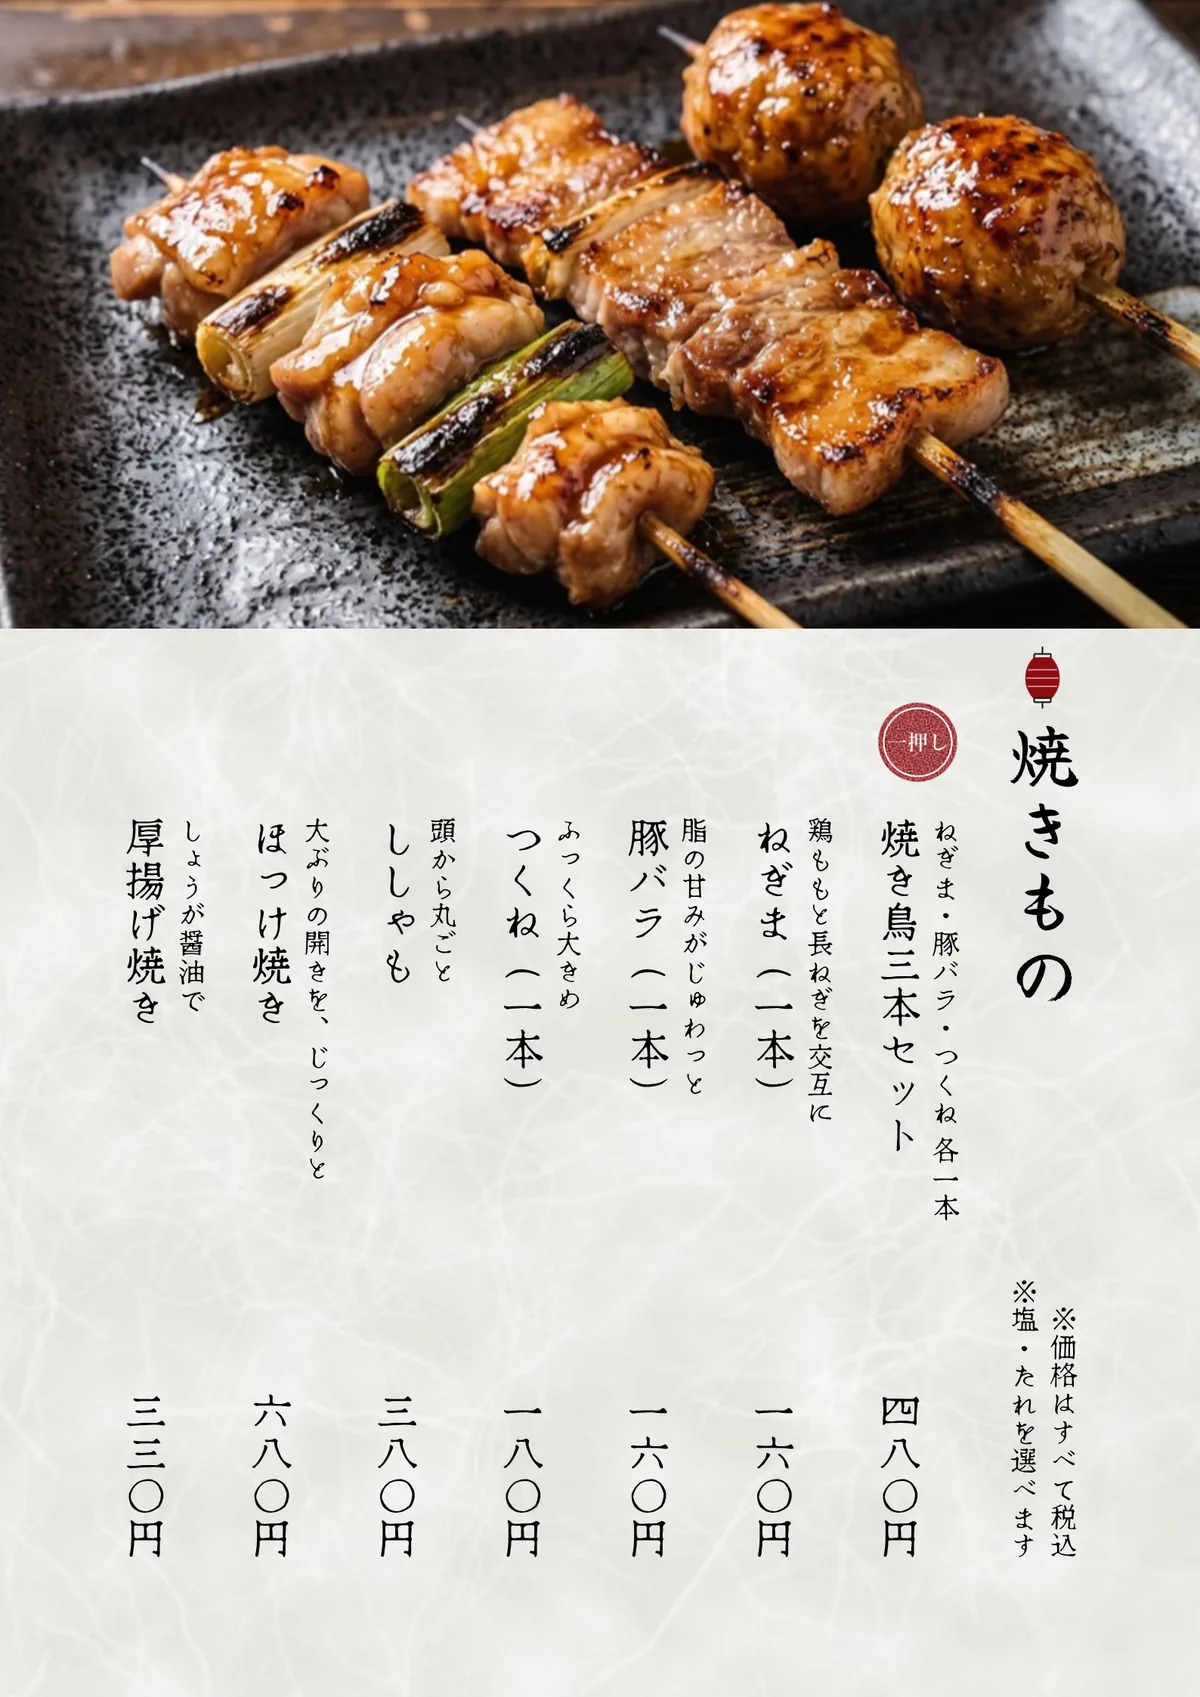
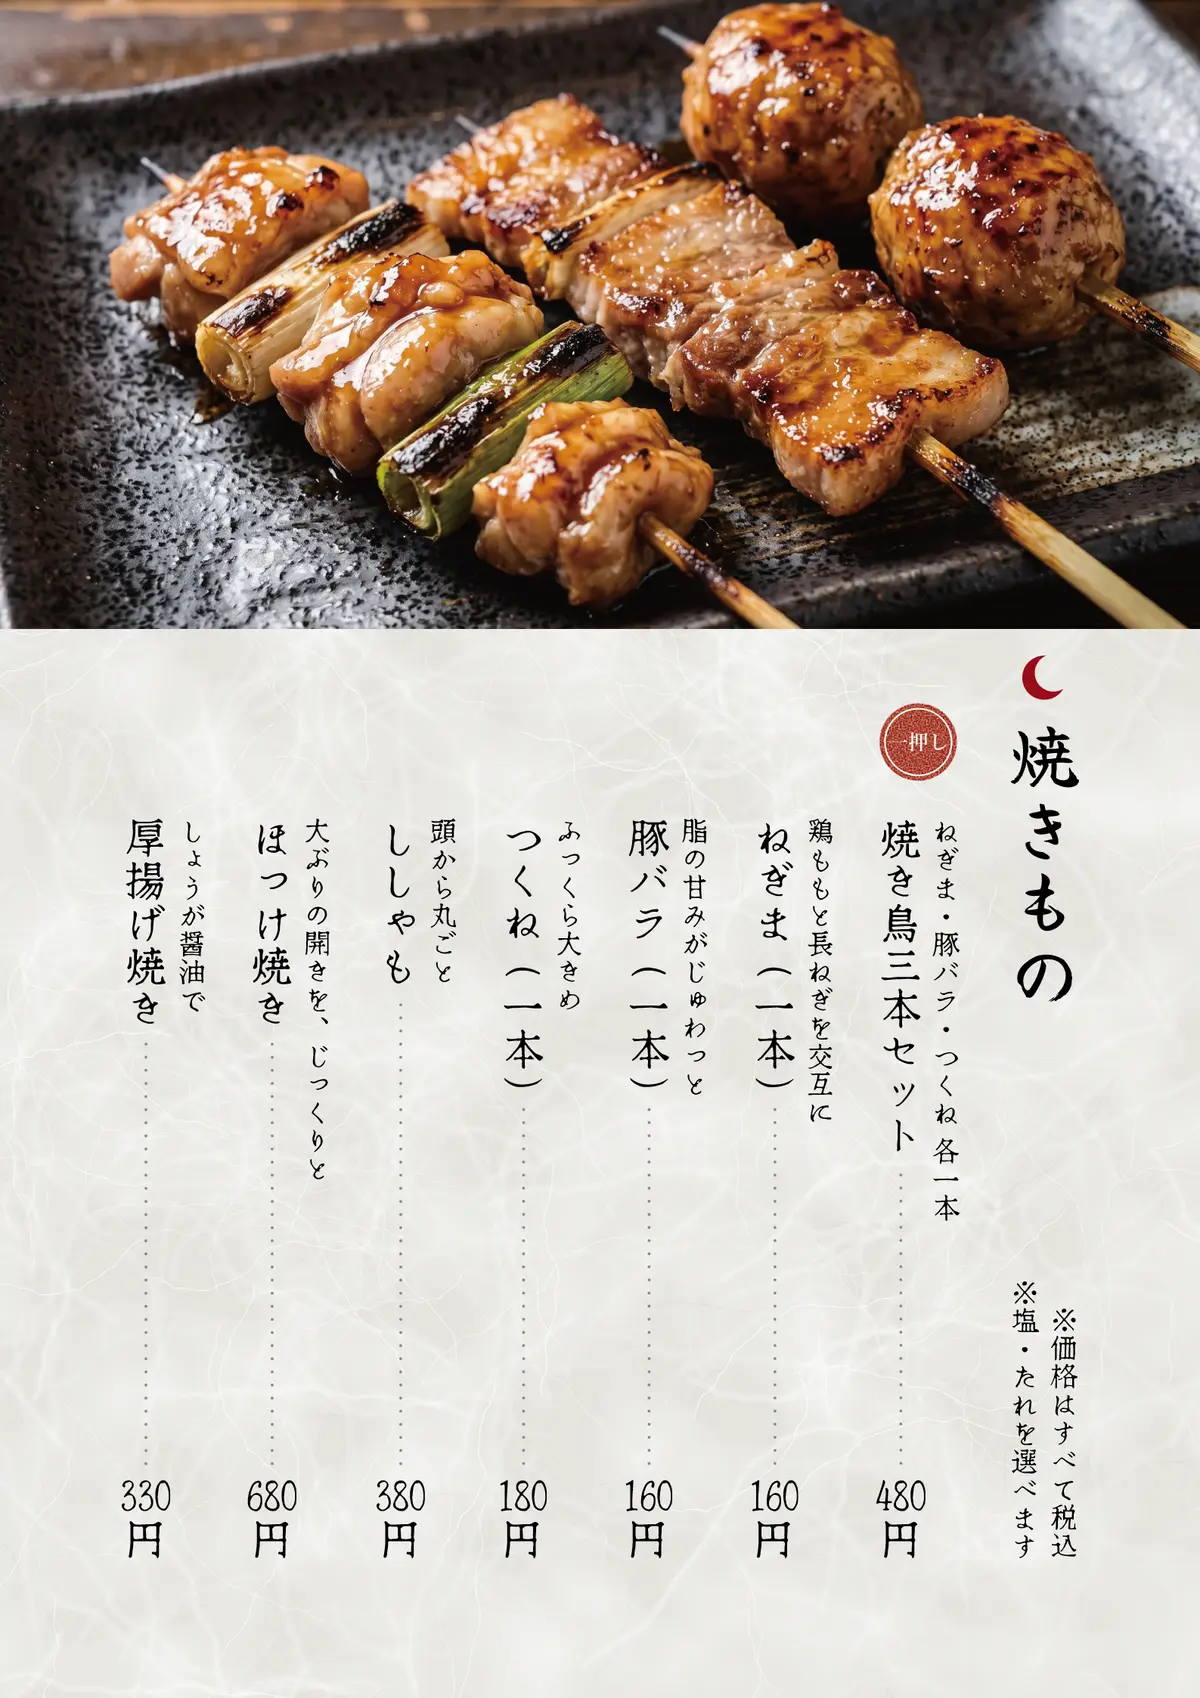
作品集の三日月酒場を手直し：表紙を作り直し、値段を算用数字と点線に、お酒を12品に、見出しを三日月に

diff --git a/works/izakaya/index.html b/works/izakaya/index.html
@@ -54,13 +54,13 @@
         <h1 class="case-hero__title"><span>居酒屋の</span><span>メニュー表</span><span>（A4・8ページ）</span></h1>
         <p class="case-hero__lead">ふらっと入ったお客さまにも、<br class="pc-only">おすすめと値段がすぐ伝わるように。</p>
         <figure class="case-hero__img">
-          <img src="images/hero-800.webp" srcset="images/hero-800.webp 800w, images/hero.webp 1200w" sizes="(min-width: 1080px) 1000px, 100vw" width="1200" height="630" alt="メニュー表の3ページを並べたところ。中央に「お品書き」と三日月のロゴの表紙、左にお刺身のページ、右に焼きもののページ" fetchpriority="high">
+          <img src="images/hero-800.webp" srcset="images/hero-800.webp 800w, images/hero.webp 1200w" sizes="(min-width: 1080px) 1000px, 100vw" width="1200" height="630" alt="メニュー表の3ページを並べたところ。中央に、夜の色の面に店名「三日月酒場」と和紙の三日月を置いた表紙、左にドリンクのページ、右に焼きもののページ" fetchpriority="high">
         </figure>
         <dl class="case-meta">
           <div><dt>業種</dt><dd>居酒屋（架空）</dd></div>
           <div><dt>制作物</dt><dd>メニュー表（A4縦・8ページ：表紙＋7ジャンル）</dd></div>
           <div><dt>担当範囲</dt><dd>品書きの構成・文章・値段の設定・デザイン・ロゴ・和紙の地・飾りの作成</dd></div>
-          <div><dt>使ったもの</dt><dd>Canva（オリジナルの和紙の地・ロゴ・判・飾りは自作）</dd></div>
+          <div><dt>使ったもの</dt><dd>Canva（下書き）、Illustrator（印刷用データ。和紙の地・ロゴ・判・見出しの印は自作）</dd></div>
         </dl>
         <p class="case-note">※練習として制作した、架空のお店のサンプルです。店名・品書き・値段はすべて架空です。<br>※写真は画像生成AIで作成しています（実際のご依頼では、お店の料理写真を使います）。</p>
       </div>
@@ -104,7 +104,7 @@
           </li>
           <li>
             <h3>店名・ロゴ・和紙・飾りは自分で作る</h3>
-            <p>「三日月酒場」という店名と三日月のロゴ、和紙の地、ちょうちんの飾り、「一押し」の丸い判は、<strong>素材を使わずに自分で作りました</strong>。どのページにも同じ部品を使い、まとまりを出しています。</p>
+            <p>「三日月酒場」という店名と三日月のロゴ、和紙の地、「一押し」の丸い判は、<strong>素材を使わずに自分で作りました</strong>。ジャンル名の上の印も<strong>表紙のロゴと同じ三日月</strong>にして、どのページを開いても店の名前につながるようにしています。</p>
           </li>
         </ol>
       </div>
@@ -120,24 +120,24 @@
         </div>
         <ul class="points-grid">
           <li class="shot">
-            <figure class="shot__img shot__img--print"><a href="images/page-cover-large.webp" target="_blank" rel="noopener"><img src="images/page-cover.webp" width="600" height="849" alt="表紙：和紙の地に縦書きの「お品書き」、三日月のロゴと店名「三日月酒場」。下にお通し・アレルギー・お酒の注意書き" loading="lazy"></a></figure>
-            <h3>注意書きは、表紙にまとめる</h3>
-            <p>表紙は「お品書き」とロゴ・店名だけにして、下に<strong>お通し三〇〇円（税込）・アレルギーの声かけ・お酒の注意</strong>をまとめました。</p>
+            <figure class="shot__img shot__img--print"><a href="images/page-cover-large.webp" target="_blank" rel="noopener"><img src="images/page-cover.webp" width="600" height="849" alt="表紙：上は墨藍の夜の色に、白抜きの縦書きの店名「三日月酒場」と、和紙を切り抜いた三日月。下の和紙に縦書きの「お品書き」と三日月のロゴ、お通し・アレルギー・お酒の注意書き" loading="lazy"></a></figure>
+            <h3>表紙は、店の名前を夜の月で見せる</h3>
+            <p>表紙の上は、中のページの写真と同じ高さを<strong>夜の色（墨藍）</strong>にし、和紙を三日月の形に切り抜いて月にしました。店名「三日月酒場」は白抜きの縦書きで大きく置き、表紙だけで店の名前が伝わるようにしています。下の和紙には「お品書き」とロゴ、<strong>お通し300円（税込）・アレルギーの声かけ・お酒の注意</strong>をまとめました。</p>
           </li>
           <li class="shot">
             <figure class="shot__img shot__img--print"><a href="images/page-otsumami-large.webp" target="_blank" rel="noopener"><img src="images/page-otsumami.webp" width="600" height="849" alt="おつまみのページ：上に枝豆の写真、下に縦書きの品書き。1品目の塩ゆで枝豆に「一押し」の判" loading="lazy"></a></figure>
             <h3>上に写真、下に品書き</h3>
-            <p>どのページも、写真 → ちょうちんの飾りとジャンル名 → 品書きの順です。料理名には「ゆでたてに粗塩をひとふり」のような、短いひとことを添えました。</p>
+            <p>どのページも、写真 → 三日月の印とジャンル名 → 品書きの順です。料理名には「ゆでたてに粗塩をひとふり」のような、短いひとことを添えました。</p>
           </li>
           <li class="shot">
-            <figure class="shot__img shot__img--print"><a href="images/page-yakimono-large.webp" target="_blank" rel="noopener"><img src="images/page-yakimono.webp" width="600" height="849" alt="焼きもののページ：上に焼き鳥（ねぎま・豚バラ・つくね）の写真、下に縦書きの品書きと漢数字の値段" loading="lazy"></a></figure>
-            <h3>値段は漢数字で、下の段にそろえる</h3>
-            <p>縦書きに合わせて値段は「四八〇円」のような漢数字にし、高さをそろえて並べました。焼きものには「※塩・たれを選べます」と添えています。</p>
+            <figure class="shot__img shot__img--print"><a href="images/page-yakimono-large.webp" target="_blank" rel="noopener"><img src="images/page-yakimono.webp" width="600" height="849" alt="焼きもののページ：上に焼き鳥（ねぎま・豚バラ・つくね）の写真、下に縦書きの品書き。値段は算用数字で、品名と点線でつないでいる" loading="lazy"></a></figure>
+            <h3>値段は算用数字にして、点線でつなぐ</h3>
+            <p>値段は、ぱっと比べられるように「480円」のような算用数字にし（数字は縦中横）、各列の下で高さをそろえました。品名と値段のあいだは<strong>点線でつなぎ</strong>、どの値段がどの品かを目で追えるようにしています。焼きものには「※塩・たれを選べます」と添えています。</p>
           </li>
           <li class="shot">
-            <figure class="shot__img shot__img--print"><a href="images/page-kanmi-large.webp" target="_blank" rel="noopener"><img src="images/page-kanmi.webp" width="600" height="849" alt="甘味のページ：上に抹茶・あずき・白玉・バニラアイスの写真、下に「アイス」と「和の甘味」の二段の品書き" loading="lazy"></a></figure>
-            <h3>品数の少ないページは二段に</h3>
-            <p>甘味とドリンクは「アイス／和の甘味」のように二段に分けました。一押しの名前は、写真に写っている具に合わせて「抹茶あずき白玉アイス」にしています。</p>
+            <figure class="shot__img shot__img--print"><a href="images/page-drink-large.webp" target="_blank" rel="noopener"><img src="images/page-drink.webp" width="600" height="849" alt="ドリンクのページ：上に生ビールの写真、下に「お飲みもの」の品書きを二段に。お酒12品のあとに小見出し「ソフトドリンク」と4品" loading="lazy"></a></figure>
+            <h3>「酒場」らしく、お酒は12品</h3>
+            <p>ビール・ハイボール・日本酒・焼酎・梅酒・サワーまでそろえ、ソフトドリンクと合わせた16品を、<strong>ページを増やさず二段に収めました</strong>。ソフトドリンクの前には小さな見出しを入れて、お酒と分けています。店名にちなんで、三日月形のレモンを入れた「三日月サワー」も置いています。</p>
           </li>
         </ul>
       </div>

diff --git a/gallery/index.html b/gallery/index.html
@@ -756,22 +756,22 @@
           <p class="work__name">「三日月酒場」（架空のお店）</p>
         </div>
         <dl class="work__spec">
-          <dt>担当</dt><dd>品書きの構成・文章・デザイン、店名のロゴ・和紙の地・ちょうちんの飾り・「一押し」の判</dd>
-          <dt>使ったもの</dt><dd>Canva</dd>
+          <dt>担当</dt><dd>品書きの構成・文章・デザイン、店名のロゴ・和紙の地・見出しの三日月の印・「一押し」の判</dd>
+          <dt>使ったもの</dt><dd>Canva（下書き）、Illustrator（印刷用データ）</dd>
         </dl>
-        <p class="work__body">ふらっと入ったお客さまにも、何を頼めばいいかがすぐ伝わるように、1ページ1ジャンルにし、上の写真の料理を品書きの1品目にそろえて「一押し」の判を押しました。縦書きに合わせて数字は漢数字にし、下の段に高さをそろえています。</p>
+        <p class="work__body">ふらっと入ったお客さまにも、何を頼めばいいかがすぐ伝わるように、1ページ1ジャンルにし、上の写真の料理を品書きの1品目にそろえて「一押し」の判を押しました。値段は比べやすい算用数字にして各列の下にそろえ、品名とは点線でつないでいます。お酒は「酒場」らしく12品にし、ソフトドリンクと合わせて二段に収めました。表紙は上を夜の色にして、和紙を切り抜いた三日月と店名を大きく置き、表紙だけで店の名前が伝わるようにしました。</p>
         <p class="work__note">写真は画像生成AIで作成したイメージです。</p>
       </div>
       <div class="work__media">
         <ul class="pages">
-          <li><figure class="shot"><a class="shot__link" href="images/izakaya-p8.webp"><img src="images/izakaya-p8-400.webp" width="400" height="566" alt="表紙：和紙の地に縦書きの「お品書き」、三日月のロゴと店名、下に注意書き" loading="lazy"></a><figcaption>表紙</figcaption></figure></li>
+          <li><figure class="shot"><a class="shot__link" href="images/izakaya-p8.webp"><img src="images/izakaya-p8-400.webp" width="400" height="566" alt="表紙：上は墨藍の夜の色に、白抜きの縦書きの店名「三日月酒場」と、和紙を切り抜いた三日月。下の和紙に縦書きの「お品書き」と三日月のロゴ、注意書き" loading="lazy"></a><figcaption>表紙</figcaption></figure></li>
           <li><figure class="shot"><a class="shot__link" href="images/izakaya-p1.webp"><img src="images/izakaya-p1-400.webp" width="400" height="566" alt="おつまみのページ：枝豆の写真と縦書きの品書き" loading="lazy"></a><figcaption>おつまみ</figcaption></figure></li>
           <li><figure class="shot"><a class="shot__link" href="images/izakaya-p2.webp"><img src="images/izakaya-p2-400.webp" width="400" height="566" alt="お刺身のページ：刺身の盛り合わせの写真と縦書きの品書き" loading="lazy"></a><figcaption>お刺身</figcaption></figure></li>
           <li><figure class="shot"><a class="shot__link" href="images/izakaya-p3.webp"><img src="images/izakaya-p3-400.webp" width="400" height="566" alt="焼きもののページ：焼き鳥の写真と縦書きの品書き" loading="lazy"></a><figcaption>焼きもの</figcaption></figure></li>
           <li><figure class="shot"><a class="shot__link" href="images/izakaya-p4.webp"><img src="images/izakaya-p4-400.webp" width="400" height="566" alt="揚げ物のページ：唐揚げの写真と縦書きの品書き" loading="lazy"></a><figcaption>揚げ物</figcaption></figure></li>
           <li><figure class="shot"><a class="shot__link" href="images/izakaya-p5.webp"><img src="images/izakaya-p5-400.webp" width="400" height="566" alt="鉄板とご飯のページ：鉄鍋のペッパーライスの写真と縦書きの品書き" loading="lazy"></a><figcaption>鉄板とご飯</figcaption></figure></li>
           <li><figure class="shot"><a class="shot__link" href="images/izakaya-p6.webp"><img src="images/izakaya-p6-400.webp" width="400" height="566" alt="甘味のページ：抹茶・あずき・白玉・アイスの写真と二段の品書き" loading="lazy"></a><figcaption>甘味</figcaption></figure></li>
-          <li><figure class="shot"><a class="shot__link" href="images/izakaya-p7.webp"><img src="images/izakaya-p7-400.webp" width="400" height="566" alt="ドリンクのページ：生ビールの写真と二段の品書き" loading="lazy"></a><figcaption>ドリンク</figcaption></figure></li>
+          <li><figure class="shot"><a class="shot__link" href="images/izakaya-p7.webp"><img src="images/izakaya-p7-400.webp" width="400" height="566" alt="ドリンクのページ：生ビールの写真と「お飲みもの」の品書き。上の段と下の段にお酒12品、下の段の左に小見出し「ソフトドリンク」と4品" loading="lazy"></a><figcaption>ドリンク</figcaption></figure></li>
         </ul>
       </div>
     </article>

diff --git a/index.html b/index.html
@@ -207,7 +207,7 @@
           </li>
           <li class="work">
             <a class="work__link" href="works/izakaya/">
-              <div class="work__screens"><figure class="work__shot" style="--r: 0.708"><img src="images/card/izakaya-p8.webp" width="300" height="424" alt="メニュー表の表紙。和紙の地に縦書きの「お品書き」、三日月のロゴと店名" loading="lazy"><figcaption>表紙</figcaption></figure><figure class="work__shot" style="--r: 0.708"><img src="images/card/izakaya-p3.webp" width="300" height="424" alt="焼きもののページ。焼き鳥の写真と縦書きの品書き" loading="lazy"><figcaption>焼きもの</figcaption></figure><figure class="work__shot" style="--r: 0.708"><img src="images/card/izakaya-p6.webp" width="300" height="424" alt="甘味のページ。抹茶・あずき・白玉・アイスの写真と二段の品書き" loading="lazy"><figcaption>甘味</figcaption></figure></div>
+              <div class="work__screens"><figure class="work__shot" style="--r: 0.708"><img src="images/card/izakaya-p8.webp" width="300" height="424" alt="メニュー表の表紙。上は夜の色に白抜きの店名「三日月酒場」と和紙の三日月、下の和紙に縦書きの「お品書き」" loading="lazy"><figcaption>表紙</figcaption></figure><figure class="work__shot" style="--r: 0.708"><img src="images/card/izakaya-p3.webp" width="300" height="424" alt="焼きもののページ。焼き鳥の写真と縦書きの品書き" loading="lazy"><figcaption>焼きもの</figcaption></figure><figure class="work__shot" style="--r: 0.708"><img src="images/card/izakaya-p6.webp" width="300" height="424" alt="甘味のページ。抹茶・あずき・白玉・アイスの写真と二段の品書き" loading="lazy"><figcaption>甘味</figcaption></figure></div>
               <div class="work__body">
                 <p class="work__tag">メニュー表（A4・8ページ）｜居酒屋</p>
                 <h3 class="work__title">居酒屋のメニュー表「三日月酒場」</h3>
